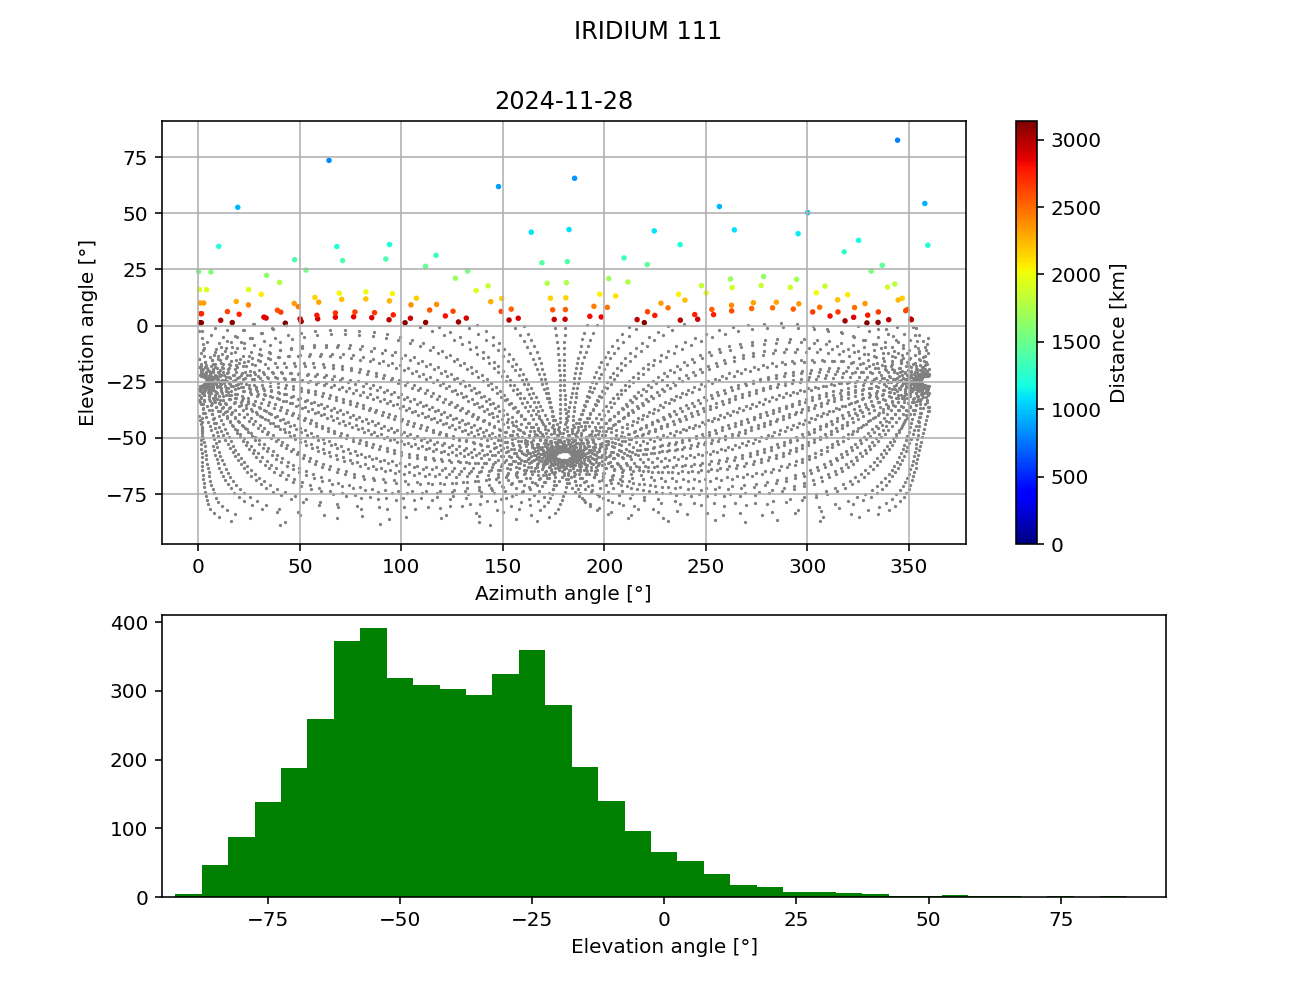
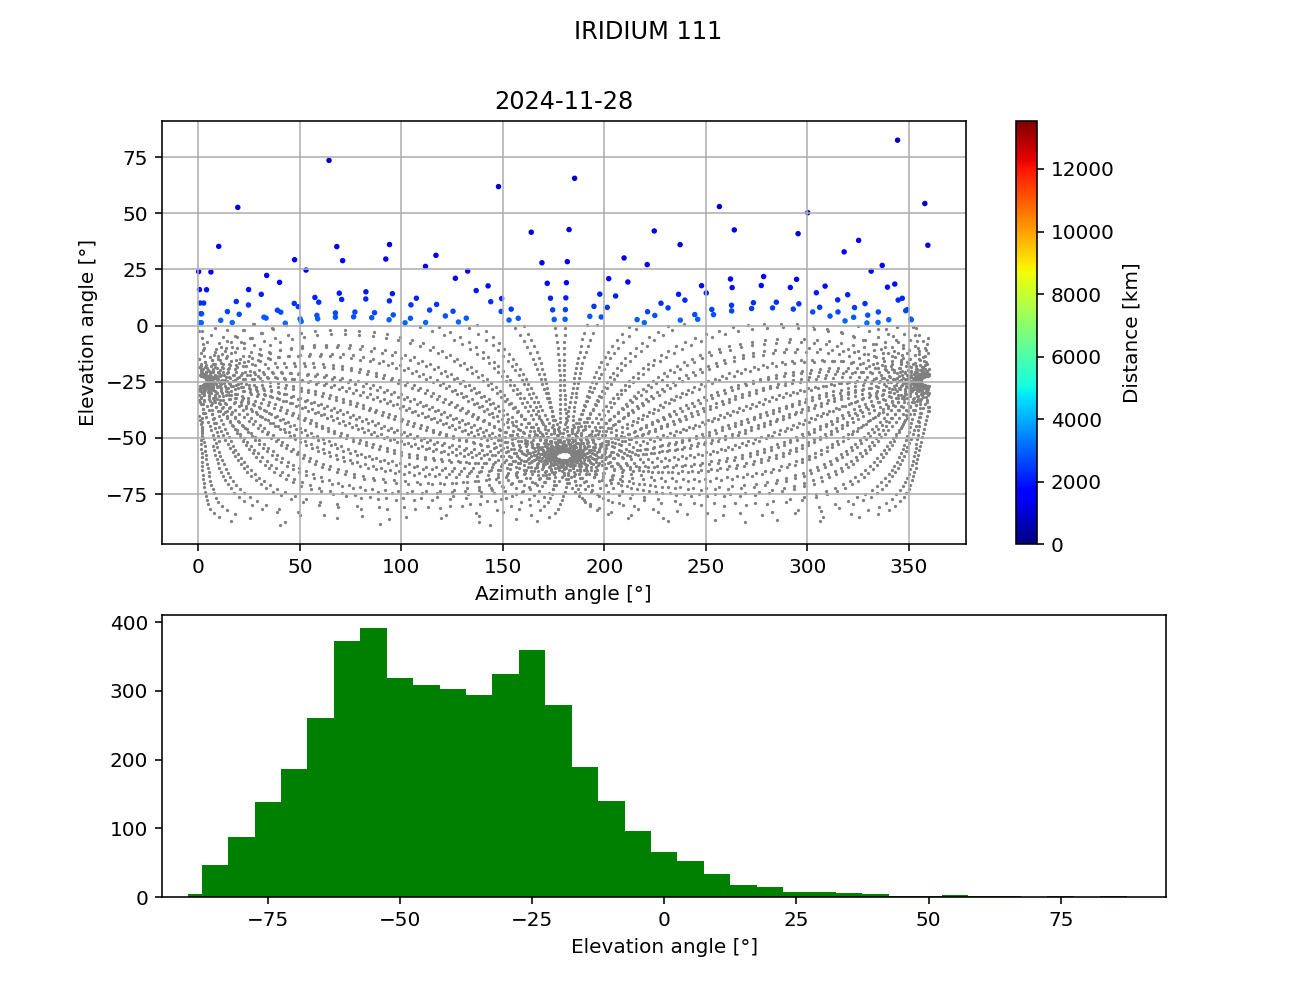
Link budget computation v2

diff --git a/Notebooks/utils.py b/Notebooks/utils.py
@@ -5,17 +5,18 @@ import matplotlib.pyplot as plt
 import matplotlib.dates as mdates
 from datetime import timedelta
 
-def load_data(src_dir,name):
+
+def load_data(src_dir, name):
     """
     Load .h5 Alphasat data, located in src_dir
     """
-    def read_hdf(src_dir,name,n_channel):
-        df = pd.read_hdf(os.path.join(src_dir,"{}_ch{}.h5".format(name,n_channel)))
+    def read_hdf(src_dir, name, n_channel):
+        df = pd.read_hdf(os.path.join(
+            src_dir, "{}_ch{}.h5".format(name, n_channel)))
         df = df.set_index('time')
         return df
-    
-    return read_hdf(src_dir,name,1), read_hdf(src_dir,name,2), read_hdf(src_dir,name,3), read_hdf(src_dir,name,4)
 
+    return read_hdf(src_dir, name, 1), read_hdf(src_dir, name, 2), read_hdf(src_dir, name, 3), read_hdf(src_dir, name, 4)
 
 
 def add_flags(df_event, df_ch1, df_ch2, df_ch3, df_ch4):
@@ -28,7 +29,7 @@ def add_flags(df_event, df_ch1, df_ch2, df_ch3, df_ch4):
         - ind_event -1: rain or failure
         - ind_event 0->len(df_event): no_event
     """
-    def flag(df_event,df):
+    def flag(df_event, df):
         df['flag'] = np.zeros_like(df['signal'], dtype=int)
         df['ind_event'] = np.zeros_like(df['signal'], dtype=int)
         for i, event in df_event.iterrows():
@@ -37,116 +38,138 @@ def add_flags(df_event, df_ch1, df_ch2, df_ch3, df_ch4):
 
             cond_idx = (df.index > time_stop)
             df.loc[cond_idx, 'ind_event'] = i+1
-            
+
             cond_idx = (df.index >= time_start) & (df.index <= time_stop)
-            if df_event.loc[i]['EVENT'] == 'rain': # set flag 1 for rain
+            if df_event.loc[i]['EVENT'] == 'rain':  # set flag 1 for rain
                 df.loc[cond_idx, 'flag'] = 1
                 df.loc[cond_idx, 'ind_event'] = -1
-            if df_event.loc[i]['EVENT'] == 'failure': # set flag 2 for failure
+            if df_event.loc[i]['EVENT'] == 'failure':  # set flag 2 for failure
                 df.loc[cond_idx, 'flag'] = 2
                 df.loc[cond_idx, 'ind_event'] = -1
 
         return df
-    
-    return flag(df_event,df_ch1), flag(df_event,df_ch2), flag(df_event,df_ch3), flag(df_event,df_ch4)
-    
-    
-    
+
+    return flag(df_event, df_ch1), flag(df_event, df_ch2), flag(df_event, df_ch3), flag(df_event, df_ch4)
+
+
 def plot_one_day_4ch(date, df_ch1, df_ch2, df_ch3, df_ch4, signal_filt=False, excess_attenuation=False, bool_save=False, show=False):
     """
     Plot time series for one day (midnight to midnight)
     """
-    
+
     # Crop dataframe to the date of interest
-    df_ch1 = df_ch1[(df_ch1.index>=date) & (df_ch1.index < (date+timedelta(days = 1)))]
-    df_ch2 = df_ch2[(df_ch2.index>=date) & (df_ch2.index < (date+timedelta(days = 1)))]
-    df_ch3 = df_ch3[(df_ch3.index>=date) & (df_ch3.index < (date+timedelta(days = 1)))]
-    df_ch4 = df_ch4[(df_ch4.index>=date) & (df_ch4.index < (date+timedelta(days = 1)))]
-    
-    fig, axs = plt.subplots(2,2,figsize=(12,10))
-    for i in range(0,4):
-        if i==0:
-            axs[i%2,i//2].set_title("ch1: x-polar 39.4 GHz")
+    df_ch1 = df_ch1[(df_ch1.index >= date) & (
+        df_ch1.index < (date+timedelta(days=1)))]
+    df_ch2 = df_ch2[(df_ch2.index >= date) & (
+        df_ch2.index < (date+timedelta(days=1)))]
+    df_ch3 = df_ch3[(df_ch3.index >= date) & (
+        df_ch3.index < (date+timedelta(days=1)))]
+    df_ch4 = df_ch4[(df_ch4.index >= date) & (
+        df_ch4.index < (date+timedelta(days=1)))]
+
+    fig, axs = plt.subplots(2, 2, figsize=(12, 10))
+    for i in range(0, 4):
+        if i == 0:
+            axs[i % 2, i//2].set_title("ch1: x-polar 39.4 GHz")
             df = df_ch1
-        elif i==1:
-            axs[i%2,i//2].set_title("ch2: co-polar 39.4 GHz")
+        elif i == 1:
+            axs[i % 2, i//2].set_title("ch2: co-polar 39.4 GHz")
             df = df_ch2
-        elif i==2:
-            axs[i%2,i//2].set_title("ch3: x-polar 19.7 GHz")
+        elif i == 2:
+            axs[i % 2, i//2].set_title("ch3: x-polar 19.7 GHz")
             df = df_ch3
-        elif i==3:
-            axs[i%2,i//2].set_title("ch4: co-polar 19.7 GHz")
+        elif i == 3:
+            axs[i % 2, i//2].set_title("ch4: co-polar 19.7 GHz")
             df = df_ch4
-            
+
         time = df.index
         if not excess_attenuation:
             signal = df['signal']
             noise = df['noise']
 
-            axs[i%2,i//2].plot(time,signal, color='lightblue')
-            axs[i%2,i//2].plot(time,noise,color="gray")
-            if signal_filt: axs[i%2,i//2].plot(time, df['signal_filt'], color="darkblue")
-            axs[i%2,i//2].grid()
-            axs[i%2,i//2].set_ylim(-50,20)
-            axs[i%2,i//2].set_ylabel("Power [dB]")
-            axs[i%2,i//2].xaxis.set_major_formatter(mdates.DateFormatter('%H:%M'))
+            axs[i % 2, i//2].plot(time, signal, color='lightblue')
+            axs[i % 2, i//2].plot(time, noise, color="gray")
+            if signal_filt:
+                axs[i % 2, i//2].plot(time, df['signal_filt'],
+                                      color="darkblue")
+            axs[i % 2, i//2].grid()
+            axs[i % 2, i//2].set_ylim(-50, 20)
+            axs[i % 2, i//2].set_ylabel("Power [dB]")
+            axs[i % 2, i //
+                2].xaxis.set_major_formatter(mdates.DateFormatter('%H:%M'))
         else:
-            axs[i%2,i//2].plot(time, df['excess_attenuation'], color='lightblue')
-            axs[i%2,i//2].plot(time, np.zeros_like(time, dtype=float), color='red')
-            axs[i%2,i//2].grid()
-            axs[i%2,i//2].set_ylabel("Power [dB]")
-            axs[i%2,i//2].xaxis.set_major_formatter(mdates.DateFormatter('%H:%M'))
-        
+            axs[i % 2, i//2].plot(time,
+                                  df['excess_attenuation'], color='lightblue')
+            axs[i % 2, i//2].plot(time, np.zeros_like(time,
+                                  dtype=float), color='red')
+            axs[i % 2, i//2].grid()
+            axs[i % 2, i//2].set_ylabel("Power [dB]")
+            axs[i % 2, i //
+                2].xaxis.set_major_formatter(mdates.DateFormatter('%H:%M'))
+
         # Show rain events & determine start and stop times of rain event during the day
         idx_start = []
         idx_stop = []
-        if df.loc[:, 'flag'][0] == 1: #if rain at the start of the day
+        if df.loc[:, 'flag'][0] == 1:  # if rain at the start of the day
             idx_start.append(0)
-        for idx in np.where(np.diff(df.loc[:, 'flag'].values) == True)[0]: #find index of 0 to 1 transitions in flags
-            idx_start.append(idx) 
-        for idx in np.where(-np.diff(df.loc[:, 'flag'].values) == True)[0]: #find index of 1 to 0 transitions in flags
-            idx_stop.append(idx) 
-        if df.loc[:, 'flag'][-1] == 1: #if rain at the end of the day
+        # find index of 0 to 1 transitions in flags
+        for idx in np.where(np.diff(df.loc[:, 'flag'].values) == True)[0]:
+            idx_start.append(idx)
+        # find index of 1 to 0 transitions in flags
+        for idx in np.where(-np.diff(df.loc[:, 'flag'].values) == True)[0]:
+            idx_stop.append(idx)
+        if df.loc[:, 'flag'][-1] == 1:  # if rain at the end of the day
             idx_stop.append(len(df.loc[:, 'flag'])-1)
-            
-        for k in range(0,len(idx_start)):
-            axs[i%2,i//2].axvspan(df.index[idx_start[k]],df.index[idx_stop[k]], color='red', alpha=0.25)
-            
+
+        for k in range(0, len(idx_start)):
+            axs[i % 2, i//2].axvspan(df.index[idx_start[k]],
+                                     df.index[idx_stop[k]], color='red', alpha=0.25)
+
         # Show failure events
         idx_start = []
         idx_stop = []
         flag_failure = np.copy(df.loc[:, 'flag'].values)
-        flag_failure[flag_failure<=1] = 0
+        flag_failure[flag_failure <= 1] = 0
         flag_failure = flag_failure / 2
-        if flag_failure[0] == 1: 
+        if flag_failure[0] == 1:
             idx_start.append(0)
-        for idx in np.where(np.diff(flag_failure) == True)[0]: #find index of 0 to 2 transitions in flags
-            idx_start.append(idx) 
-        for idx in np.where(-np.diff(flag_failure) == True)[0]: #find index of 2 to 0 transitions in flags
-            idx_stop.append(idx) 
-        if flag_failure[-1] == 1: 
+        # find index of 0 to 2 transitions in flags
+        for idx in np.where(np.diff(flag_failure) == True)[0]:
+            idx_start.append(idx)
+        # find index of 2 to 0 transitions in flags
+        for idx in np.where(-np.diff(flag_failure) == True)[0]:
+            idx_stop.append(idx)
+        if flag_failure[-1] == 1:
             idx_stop.append(len(df['flag'])-1)
-            
-        for k in range(0,len(idx_start)):
-            axs[i%2,i//2].axvspan(df.index[idx_start[k]],df.index[idx_stop[k]], color='grey', alpha=0.25)
-            
-    fig.suptitle("Alphasat received data at LLN for "+ date.strftime('%Y-%m-%d'),fontsize=14)
-    
+
+        for k in range(0, len(idx_start)):
+            axs[i % 2, i//2].axvspan(df.index[idx_start[k]],
+                                     df.index[idx_stop[k]], color='grey', alpha=0.25)
+
+    fig.suptitle("Alphasat received data at LLN for " +
+                 date.strftime('%Y-%m-%d'), fontsize=14)
+
     if bool_save:
         fig.savefig(f'figures/{date.strftime('%B%Y')}/{date.strftime('%Y_%m_%d')} ' +
-        f'{int(excess_attenuation)*"excess attenuation"+int(signal_filt)*'filtered'}.png')
-    
+                    f'{int(excess_attenuation)*"excess attenuation"+int(signal_filt)*'filtered'}.png')
+
     if not show:
         plt.close()
-        
-def plot_RAPIDS_outputs(rapids_data,title):
+
+
+def plot_RAPIDS_outputs(rapids_data, title, link_budget=False):
     """
     Plot RAPIDS attenuation from the rapids_data dataframe. The dataframe must contain a "PROBABILITY" and a "ATTENUATION" field.
     """
     plt.figure()
-    for i in range(0,18):
-        plt.semilogx(rapids_data["PROBABILITY"].values[i*26:(i+1)*26],rapids_data["ATTENUATION"].values[i*26:(i+1)*26],label="{}°".format((i+1)*5))
+    if link_budget:
+        plt.semilogx(rapids_data["PROBABILITY"].values,
+                     rapids_data["ATTENUATION"].values, label='Link Budget')
+    else:
+        for i in range(0, 18):
+            plt.semilogx(rapids_data["PROBABILITY"].values[i*26:(i+1)*26],
+                         rapids_data["ATTENUATION"].values[i*26:(i+1)*26], label="{}°".format((i+1)*5))
+        plt.xlim(1e-3, 1e2)
     plt.grid()
-    plt.title(title)
-    plt.xlim(1e-3,100)
+    plt.suptitle(title)
     plt.legend()

diff --git a/Notebooks/link_budget.py b/Notebooks/link_budget.py
@@ -3,54 +3,77 @@
 Created on Fri Jan 17 19:32:50 2025
 
 @author: carbonnelleg
+
+Interesting links:
+    https://www.itu.int/dms_pubrec/itu-r/rec/p/R-REC-P.676-8-200910-S!!PDF-E.pdf
+    https://www.itu.int/dms_pubrec/itu-r/rec/p/R-REC-P.840-4-200910-S!!PDF-E.pdf
+    https://www.itu.int/dms_pubrec/itu-r/rec/p/R-REC-P.618-10-200910-S!!PDF-E.pdf
 """
 import pandas as pd
 import numpy as np
 import utils
 import satellite_elevation as se
+from matplotlib import pyplot as plt
+
+EPSILON = 1e-5
 
 # Read files and generate pandas DataFrame
-field_names = ['SITE', 'SATELLITE', 'FREQUENCY', 'ELEVATION', 'EP', 'PROBABILITY',
-               'ATTENUATION']
+# field_names = \
+# ['SITE', 'SATELLITE', 'FREQUENCY', 'ELEVATION', 'EP', 'PROBABILITY', 'ATTENUATION']
+field_names = ['SITE', 'SATELLITE', 'FREQUENCY', 'ATTENUATION', 'PROBABILITY']
 # depends on the type of file that is read! E.g. for total attenuation
 
+cdf = True
 file1 = pd.read_csv(
-    __file__ + '/../rapids/lln_37GHz_1/output/ascii/attenuation_total.csv',
+    __file__ + '/../../Houston/houston_37GHz_1/output/ascii/attenuation_total_cdf.csv',
     skiprows=7, names=field_names)
 file2 = pd.read_csv(
-    __file__ + '/../rapids/lln_37GHz_2/output/ascii/attenuation_total.csv',
+    __file__ + '/../../Houston/houston_37GHz_2/output/ascii/attenuation_total_cdf.csv',
     skiprows=7, names=field_names)
 
 rapids_data = pd.concat((file1, file2), ignore_index=True)
+rapids_data.drop_duplicates(inplace=True, ignore_index=True)
+if cdf:
+    rapids_data['ELEVATION'] = (rapids_data.index//26+1)*5.
 
-# utils.plot_RAPIDS_outputs(rapids_data, "Total attenuation for LLN at 37.5 GHz")
+# utils.plot_RAPIDS_outputs(rapids_data, 'Total attenuation for LLN at 37.5 GHz')
 
-satellites = se.GlobalStarSatellites
-# counts, bins = se.plot_best_elev_angle(satellites, se.Houston, 'Iridium')
+satellites = se.IridiumSatellites
+counts, bins = se.plot_best_elev_angle(
+    se.IridiumSatellites, se.Houston, 'Iridium')
+# counts, bins = se.plot_best_elev_angle(
+#     se.GlobalStarSatellites, se.Houston, 'GlobalStar')
 # counts, bins = se.plot_elev_angle(se.AlphaSat, se.LLN)
-counts, bins = se.plot_elev_angle(satellites[0], se.Houston)
+# counts, bins = se.plot_elev_angle(satellites[10], se.Houston)
 
-s = counts.sum()
+s = counts[19:].sum()
 link_budget_df = pd.DataFrame()
 probs = np.zeros_like(rapids_data.index, dtype=float)
 
 print('### Computing Link Budget ###')
 for j, att in rapids_data.loc[:, 'ATTENUATION'].items():
     p = 0.0
-
-    for i, (theta_low, theta_high) in enumerate(zip(bins[:-1], bins[1:])):
-        if theta_low < 0.:
-            p += 100*counts[i]/s
-        else:
-            my_df = rapids_data.loc[
-                (rapids_data['ELEVATION'] >= theta_low) &
-                (rapids_data['ELEVATION'] <= theta_high)].loc[
-                    (rapids_data['ATTENUATION'] >= att)]
-            if not my_df.empty:
-                p += my_df.iloc[-1].loc['PROBABILITY']*counts[i]/s
+    for i, (theta_low, theta_high) in enumerate(zip(bins[19:-1], bins[20:]), start=19):
+        my_df = rapids_data.loc[
+            (rapids_data['ELEVATION'] >= theta_low) &
+            (rapids_data['ELEVATION'] <= theta_high)].loc[
+                (rapids_data['ATTENUATION'] >= att)]
+        if not my_df.empty:
+            p += my_df.iloc[-1].loc['PROBABILITY']*counts[i]/s
     probs[j] = p
 
 link_budget_df['ATTENUATION'] = rapids_data['ATTENUATION']
 link_budget_df['PROBABILITY'] = probs
 link_budget_df.sort_values(by='ATTENUATION', ascending=False,
                            inplace=True, ignore_index=True)
+
+link_budget_smooth = pd.DataFrame()
+link_budget_smooth['PROBABILITY'] = rapids_data.loc[:, 'PROBABILITY'].iloc[:26]
+attenuations = np.zeros_like(link_budget_smooth.index, dtype=float)
+for i, p in link_budget_smooth.loc[:, 'PROBABILITY'].items():
+    attenuations[i] = link_budget_df.loc[
+        (link_budget_df['PROBABILITY'] >= p-EPSILON), 'ATTENUATION'].iloc[0]
+link_budget_smooth['ATTENUATION'] = attenuations
+
+utils.plot_RAPIDS_outputs(link_budget_smooth, 'Test', link_budget=True)
+plt.title(f'Above horizon {100*s/counts.sum():.2f} % of time')

diff --git a/Notebooks/satellite_elevation.py b/Notebooks/satellite_elevation.py
@@ -16,7 +16,7 @@ from skyfield.api import load, wgs84, EarthSatellite
 # Enter latitude [°], longitude [°] and altitude [m] of your ground station
 LLN = wgs84.latlon(50.67, 4.61, 160)  # LLN for example
 # NASA Johnson Space Center in Houston
-Houston = wgs84.latlon(29.5594, -95.0903)
+Houston = wgs84.latlon(29.5594, -95.0903, 500)
 ts = load.timescale()
 
 satellite_url = 'https://celestrak.org/NORAD/elements/gp.php?GROUP=active&FORMAT=tle'
@@ -31,21 +31,24 @@ line2 = '2 39215   2.9165   5.6981 0002326 297.2202  81.4506  1.00268209 38813'
 AlphaSat = EarthSatellite(line1, line2, 'AlphaSat', ts)
 print(AlphaSat)
 
-IridiumSatellites = []
+
 # https://en.wikipedia.org/wiki/Iridium_satellite_constellation#Ground_stations
 # https://www.n2yo.com/satellites/?c=15&srt=1&dir=1&p=0
-# height = 787
-for i in range(100, 190):
+# Iridium NEXT project; 80 satellites constellation
+# height = 780
+IridiumSatellites = []
+for i in range(100, 181):
     try:
-        IridiumSatellites.append(by_name[f'IRIDIUM {i}'])
+        IridiumSatellites.append(by_name[f'IRIDIUM {i:0>3d}'])
     except KeyError as e:
         pass
 
-GlobalStarSatellites = []
 # https://en.wikipedia.org/wiki/Globalstar#Products_and_services
 # https://www-sop.inria.fr/members/Eitan.Altman/DEASAT/deasat4.pdf
 # https://space.skyrocket.de/doc_sdat/globalstar-2.htm
-# height = 1420
+# GlobalStar 2nd generation; 25 satellites constellation
+# height = 1414
+GlobalStarSatellites = []
 for i in range(73, 98):
     try:
         GlobalStarSatellites.append(by_name[f'GLOBALSTAR M{i:0>3d}'])
